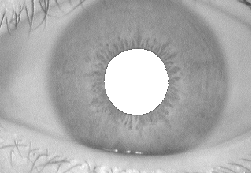
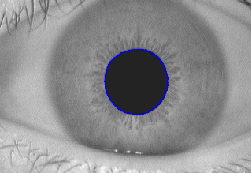
color added to flood fill

Changed region(s): [[0.4183, 0.2601, 0.6693, 0.6647]]

diff --git a/diameter.py b/diameter.py
@@ -18,6 +18,9 @@ out_data = output.load()
 ###############################################################################
 from queue import Queue
 
+def intensity(color):
+    return (color[0]**2 + color[1]**2 + color[2]**2)**0.5
+
 def valid(x, y):
     global epsilon
     global image
@@ -28,7 +31,7 @@ def valid(x, y):
     if x < 0 or y < 0 or x >= width or y >= height:
         return False
 
-    return in_data[x,y] < epsilon
+    return intensity(in_data[x,y]) < epsilon
 
 
 def flood_fill():
@@ -43,7 +46,6 @@ def flood_fill():
     visited = [[False for y in range(height)] for x in range(width)]
 
     start = (width//2, height//2)
-
 
     # Invariant: Each duple put in queue must be valid
     if not valid(start[0], start[1]):
@@ -60,7 +62,6 @@ def flood_fill():
             continue
 
         visited[x][y] = True
-        out_data[x,y] = 255 
 
         # Update result
         x_lo = min(x_lo, x)
@@ -73,9 +74,9 @@ def flood_fill():
             xp, yp = x + dx[i], y + dy[i]
             if valid(xp, yp):
                 q.put((xp, yp))
-
-
-
+            else:
+                # Edge point
+                out_data[x,y] = (0,0,255)
 
     return (x_lo, x_hi, y_lo, y_hi)
 
